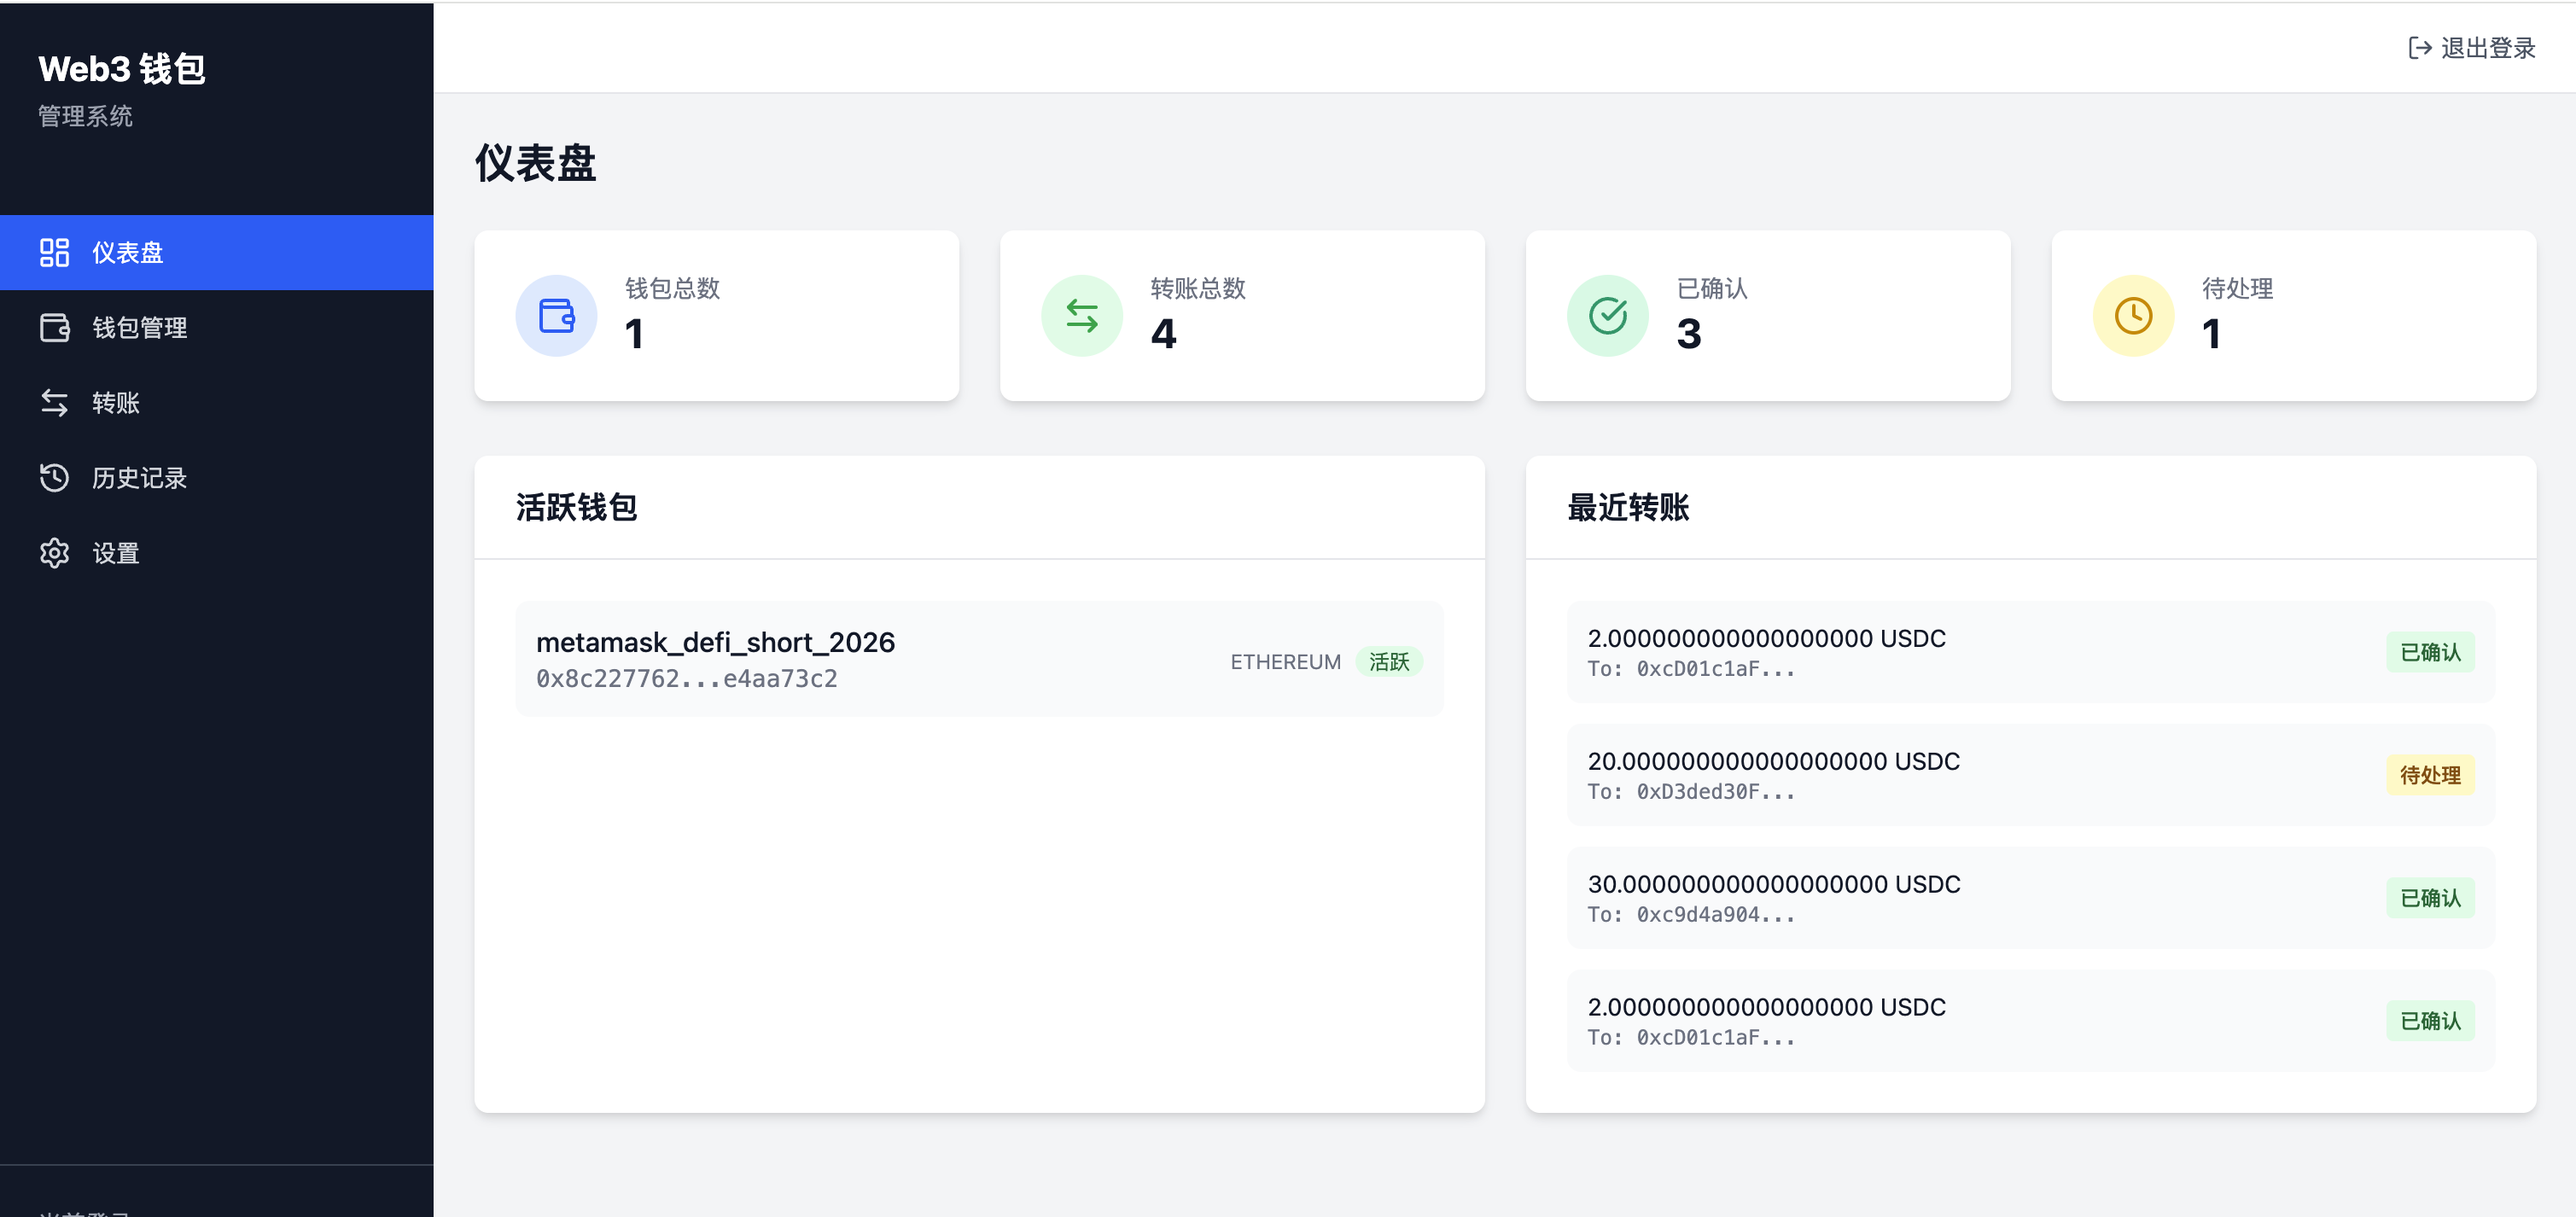
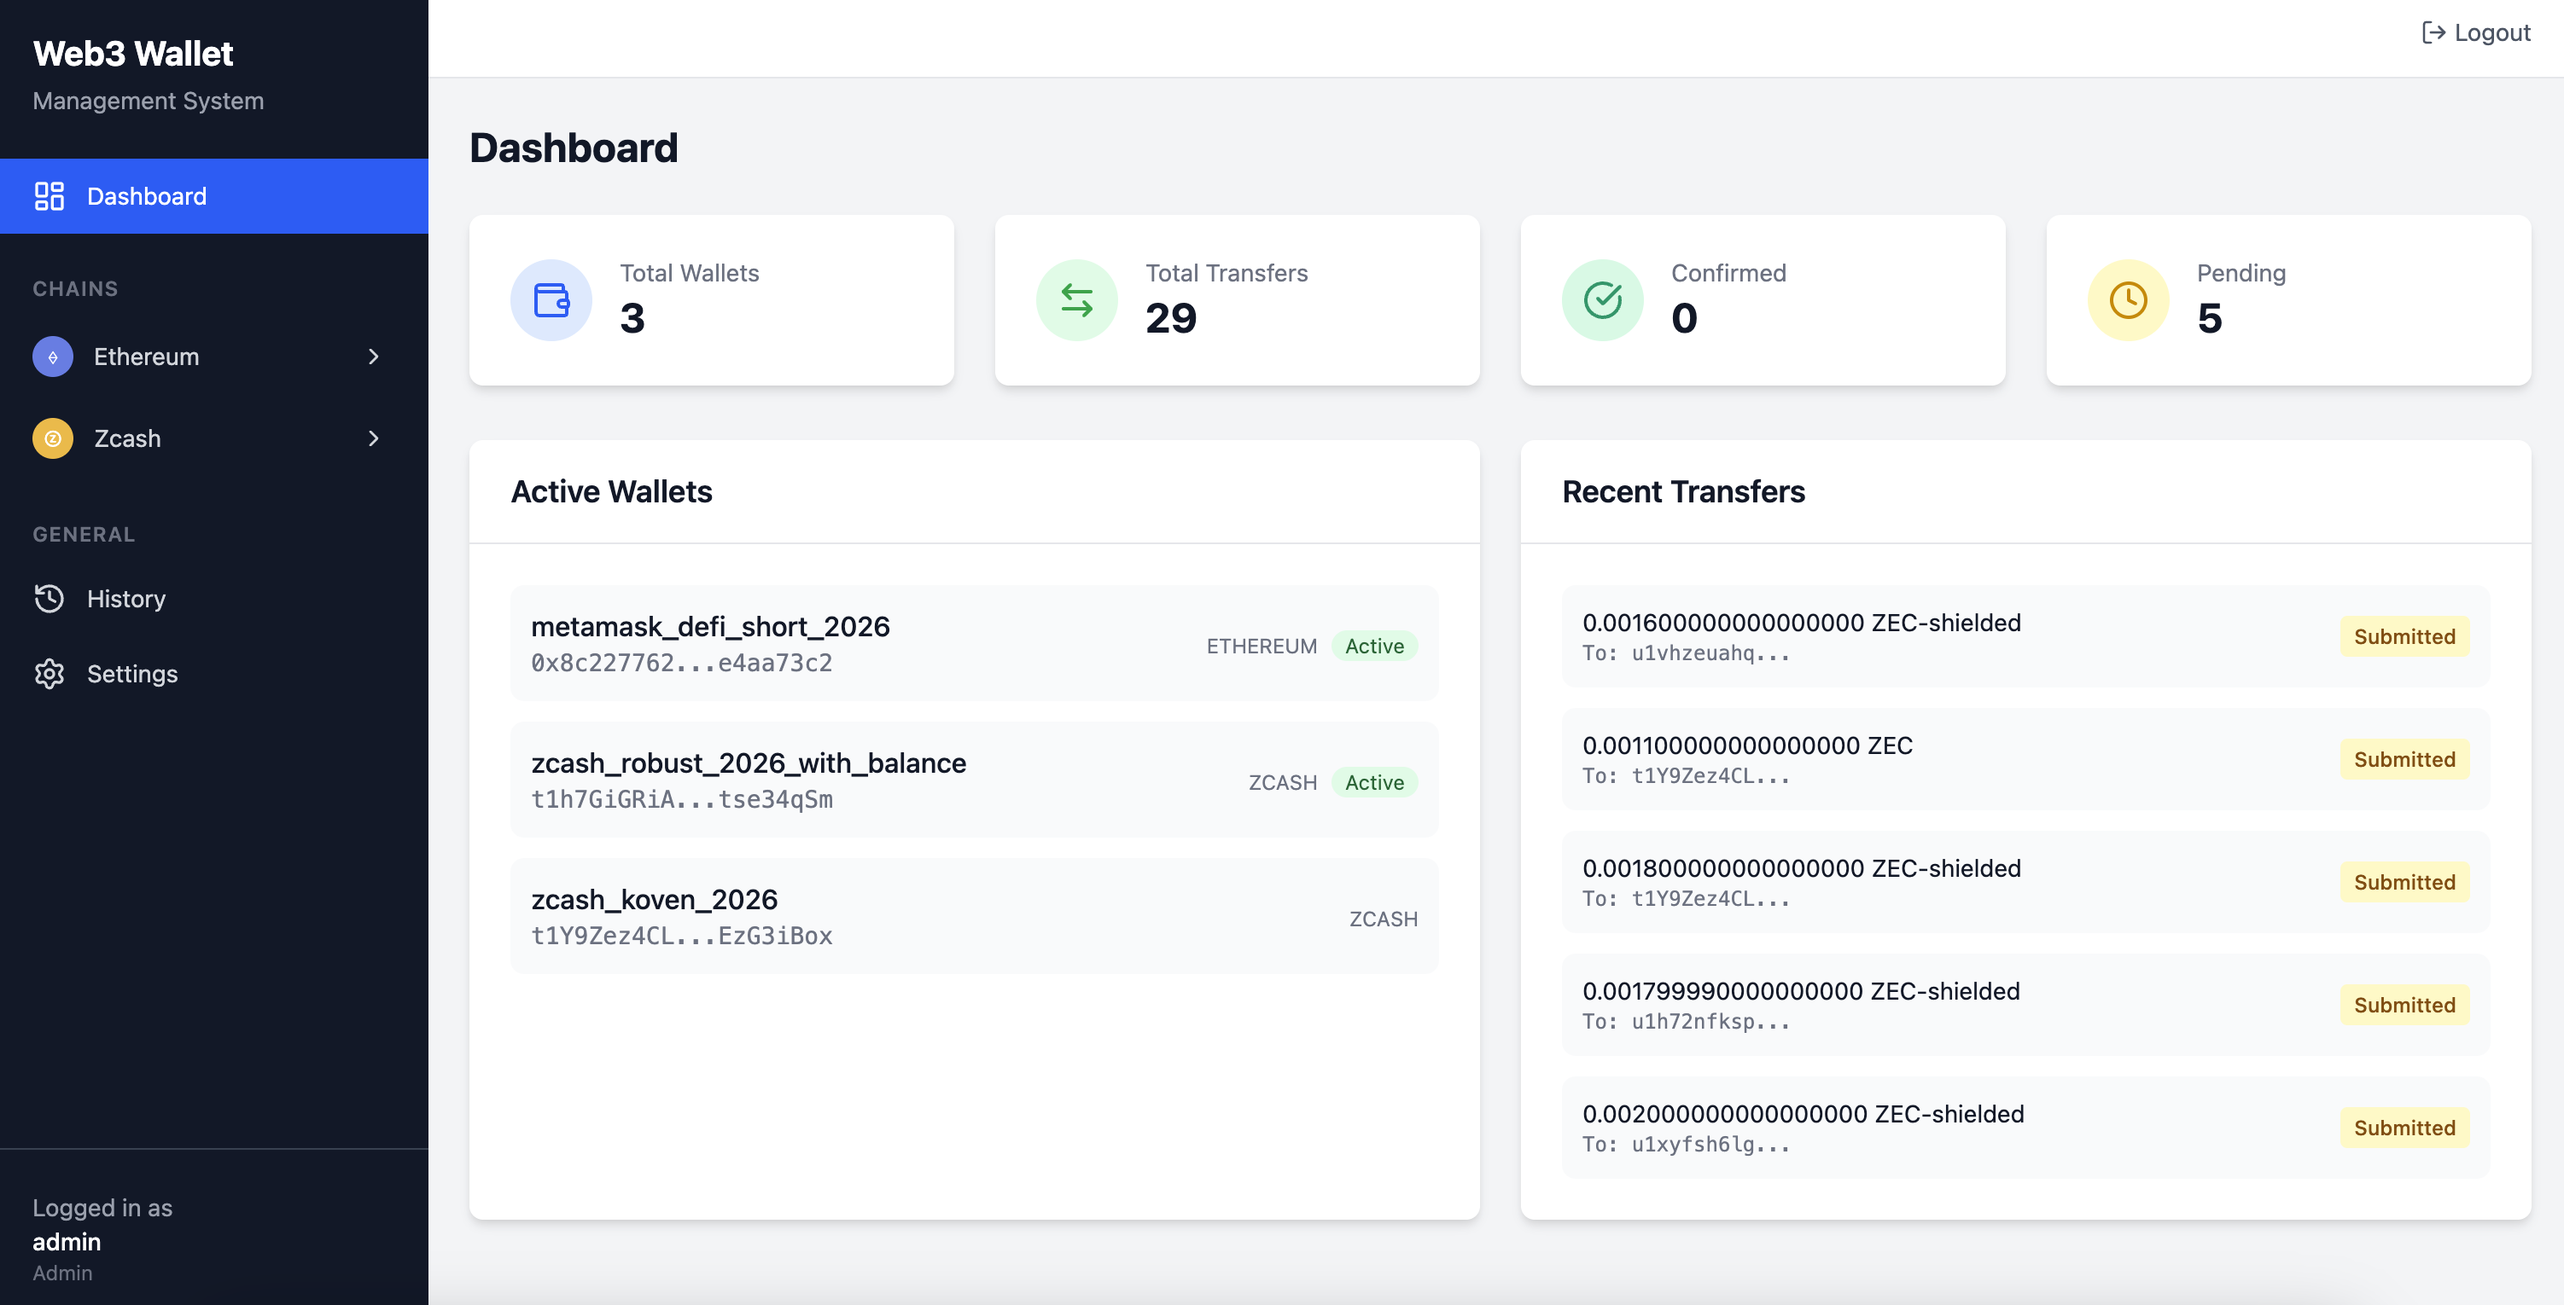
docs: 更新仪表盘截图，将界面预览移至文档前部
- 更新 dashboard.png: 显示多钱包(ETH+Zcash)和隐私转账记录
- 将 Screenshots/界面预览 章节移到 Features 之后
- 用户打开 README 即可第一时间看到系统界面

diff --git a/README.md b/README.md
@@ -19,6 +19,37 @@ A modular Web3 wallet management service with multi-chain support, featuring a R
 
 ---
 
+## Screenshots
+
+### Dashboard
+![Dashboard](docs/images/dashboard.png)
+
+### Zcash Wallet Management
+Zcash wallet with unified addresses, transparent/shielded balance display, and Privacy Notes viewer.
+![Zcash Wallet](docs/images/zcash_account.jpg)
+
+### Ethereum Transfer
+ERC20 token transfer with EIP-1559 gas estimation and balance preview.
+![Ethereum Transfer](docs/images/transfer.jpg)
+
+### Zcash Privacy Transfer (Z→Z)
+Shielded-to-shielded transfer with encrypted memo and Halo 2 proof generation.
+![Zcash Privacy Transfer](docs/images/prepare_transfer_z_z.jpg)
+
+### Transfer Success
+Transaction submitted successfully with transaction hash.
+![Transfer Success](docs/images/transfer_tx.jpg)
+
+### Transfer History
+Complete transfer history with shielded transaction tracking.
+![Transfer History](docs/images/transfer_his.jpg)
+
+### RPC Node Settings
+Multi-provider RPC configuration with Alchemy, Infura, QuickNode support.
+![RPC Settings](docs/images/node_rpc.jpg)
+
+---
+
 ## Product Vision & Roadmap
 
 We are building the **Enterprise-Grade Privacy Finance Infrastructure for Web3** — the world's first platform that enables companies to move money on public blockchains with the same privacy, security, and control as traditional financial systems.
@@ -267,35 +298,6 @@ This system is designed for enterprise-grade cryptocurrency management with priv
 | Secrets | Environment-based configuration |
 
 ---
-
-## Screenshots
-
-### Dashboard
-![Dashboard](docs/images/dashboard.png)
-
-### Zcash Wallet Management
-Zcash wallet with unified addresses, transparent/shielded balance display, and Privacy Notes viewer.
-![Zcash Wallet](docs/images/zcash_account.jpg)
-
-### Ethereum Transfer
-ERC20 token transfer with EIP-1559 gas estimation and balance preview.
-![Ethereum Transfer](docs/images/transfer.jpg)
-
-### Zcash Privacy Transfer (Z→Z)
-Shielded-to-shielded transfer with encrypted memo and Halo 2 proof generation.
-![Zcash Privacy Transfer](docs/images/prepare_transfer_z_z.jpg)
-
-### Transfer Success
-Transaction submitted successfully with transaction hash.
-![Transfer Success](docs/images/transfer_tx.jpg)
-
-### Transfer History
-Complete transfer history with shielded transaction tracking.
-![Transfer History](docs/images/transfer_his.jpg)
-
-### RPC Node Settings
-Multi-provider RPC configuration with Alchemy, Infura, QuickNode support.
-![RPC Settings](docs/images/node_rpc.jpg)
 
 ## Tech Stack
 

diff --git a/README_CN.md b/README_CN.md
@@ -19,6 +19,37 @@
 
 ---
 
+## 界面预览
+
+### 仪表盘
+![仪表盘](docs/images/dashboard.png)
+
+### Zcash 钱包管理
+Zcash 钱包页面，显示统一地址、透明/隐私余额、Privacy Notes 查看器。
+![Zcash钱包](docs/images/zcash_account.jpg)
+
+### 以太坊转账
+ERC20 代币转账，支持 EIP-1559 Gas 估算和余额变动预览。
+![以太坊转账](docs/images/transfer.jpg)
+
+### Zcash 隐私转账 (Z→Z)
+隐私到隐私转账，支持加密备忘录和 Halo 2 证明生成。
+![Zcash隐私转账](docs/images/prepare_transfer_z_z.jpg)
+
+### 转账成功
+交易提交成功，显示交易哈希。
+![转账成功](docs/images/transfer_tx.jpg)
+
+### 转账历史
+完整的转账历史记录，支持隐私交易追踪。
+![转账历史](docs/images/transfer_his.jpg)
+
+### RPC 节点设置
+多服务商 RPC 配置，支持 Alchemy、Infura、QuickNode 等。
+![RPC设置](docs/images/node_rpc.jpg)
+
+---
+
 ## 产品愿景与路线图
 
 我们正在构建 **企业级 Web3 隐私金融基础设施** — 让企业可以在公链上，像使用银行系统一样，安全、私密、可控地转移资金。
@@ -267,35 +298,6 @@ pub enum FundSource {
 | 密钥管理 | 基于环境变量配置 |
 
 ---
-
-## 界面预览
-
-### 仪表盘
-![仪表盘](docs/images/dashboard.png)
-
-### Zcash 钱包管理
-Zcash 钱包页面，显示统一地址、透明/隐私余额、Privacy Notes 查看器。
-![Zcash钱包](docs/images/zcash_account.jpg)
-
-### 以太坊转账
-ERC20 代币转账，支持 EIP-1559 Gas 估算和余额变动预览。
-![以太坊转账](docs/images/transfer.jpg)
-
-### Zcash 隐私转账 (Z→Z)
-隐私到隐私转账，支持加密备忘录和 Halo 2 证明生成。
-![Zcash隐私转账](docs/images/prepare_transfer_z_z.jpg)
-
-### 转账成功
-交易提交成功，显示交易哈希。
-![转账成功](docs/images/transfer_tx.jpg)
-
-### 转账历史
-完整的转账历史记录，支持隐私交易追踪。
-![转账历史](docs/images/transfer_his.jpg)
-
-### RPC 节点设置
-多服务商 RPC 配置，支持 Alchemy、Infura、QuickNode 等。
-![RPC设置](docs/images/node_rpc.jpg)
 
 ## 技术栈
 
